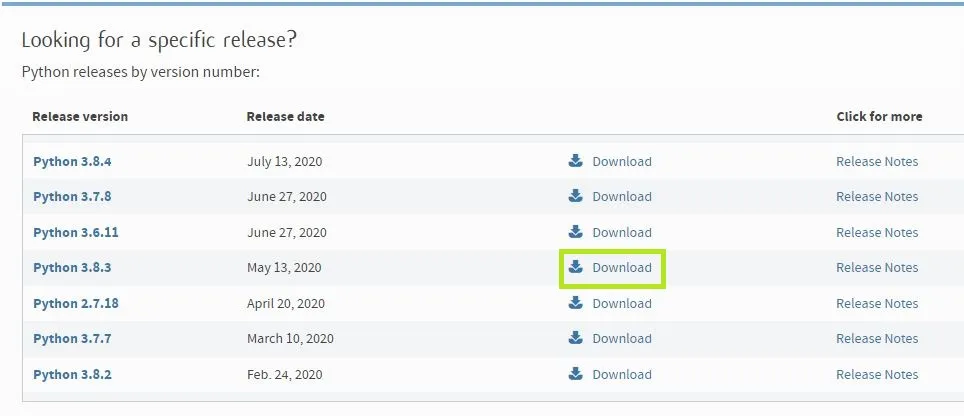
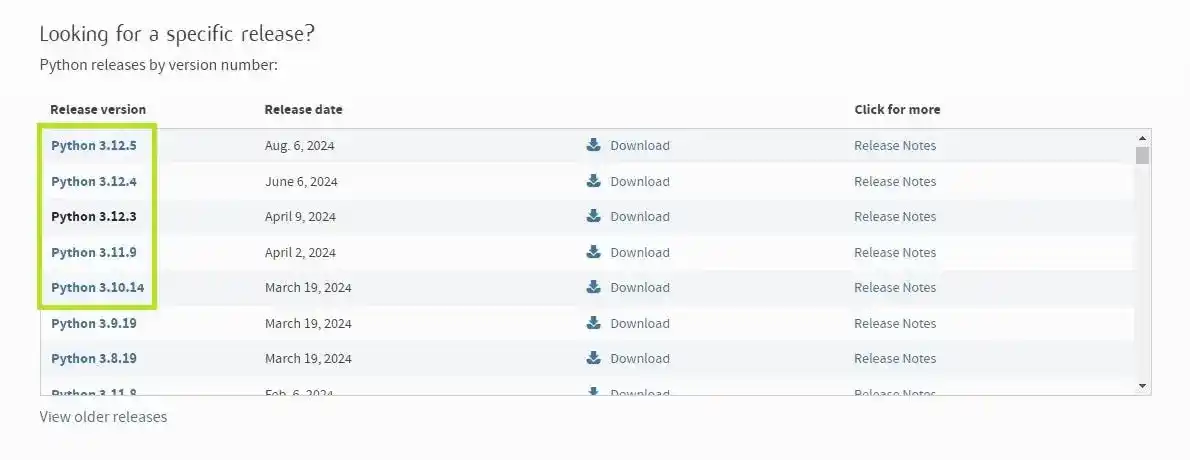
Update content class1

diff --git a/src/components/QuizForm/questionsPython.js b/src/components/QuizForm/questionsPython.js
@@ -330,7 +330,7 @@ export const questionsPythonClass2 = [
         answer: "and"
     }
 ]
-export const questionsPythonClass3 = [ 
+export const questionsPythonClass3 = [
     {
         question: "1. ¿Cuál es el propósito del uso de la estructura if en Python?",
         options: [
@@ -610,5 +610,258 @@ export const questionsPythonClass3 = [
             "Error de sintaxis"
         ],
         answer: "Cero\nUno\nDos"
+    }
+]
+
+export const questionsPythonClass4 = [
+    {
+        question: "1. ¿Cómo se define una función en Python?",
+        options: [
+            "def nombre_funcion():",
+            "function nombre_funcion():",
+            "crear_funcion():",
+            "definir_funcion()"
+        ],
+        answer: "def nombre_funcion():"
+    },
+    {
+        question: "2. ¿Cuál es la sintaxis correcta para llamar a una función llamada 'calcular'?",
+        options: [
+            "llamar calcular()",
+            "calcular",
+            "def calcular",
+            "calcular()"
+        ],
+        answer: "calcular()"
+    },
+    {
+        question: "3. ¿Qué palabra clave se utiliza para devolver un valor desde una función en Python?",
+        options: [
+            "return",
+            "yield",
+            "output",
+            "result"
+        ],
+        answer: "return"
+    },
+    {
+        question: "4. ¿Cómo se pasan parámetros a una función en Python?",
+        options: [
+            "def funcion(parametro1, parametro2):",
+            "funcion(parametro1, parametro2)",
+            "crear funcion(parametro1, parametro2):",
+            "parametro1, parametro2 = funcion()"
+        ],
+        answer: "def funcion(parametro1, parametro2):"
+    },
+    {
+        question: "5. ¿Cuál es el valor de retorno de una función en Python si no se especifica 'return'?",
+        options: [
+            "None",
+            "0",
+            "False",
+            "'' (cadena vacía)"
+        ],
+        answer: "None"
+    },
+    {
+        question: "6. ¿Qué es un módulo en Python?",
+        options: [
+            "Un archivo que contiene definiciones y declaraciones de funciones y variables.",
+            "Una función específica en Python.",
+            "Un bucle especial en Python.",
+            "Una clase predefinida en Python."
+        ],
+        answer: "Un archivo que contiene definiciones y declaraciones de funciones y variables."
+    },
+    {
+        question: "7. ¿Cómo se importa un módulo en Python?",
+        options: [
+            "import nombre_modulo",
+            "incluir nombre_modulo",
+            "usar nombre_modulo",
+            "llamar nombre_modulo"
+        ],
+        answer: "import nombre_modulo"
+    },
+    {
+        question: "8. ¿Cómo se accede a una función 'sumar' desde un módulo llamado 'operaciones'?",
+        options: [
+            "operaciones.sumar()",
+            "sumar.operaciones()",
+            "modulo.operaciones.sumar()",
+            "funcion.operaciones.sumar()"
+        ],
+        answer: "operaciones.sumar()"
+    },
+    {
+        question: "9. ¿Cuál es el propósito de la declaración 'if __name__ == \"__main__\":' en un módulo?",
+        options: [
+            "Permitir que el código dentro de ese bloque se ejecute solo cuando el módulo se ejecuta directamente.",
+            "Definir una función principal en un módulo.",
+            "Importar otros módulos dentro de un módulo.",
+            "Comprobar si un módulo tiene una función principal."
+        ],
+        answer: "Permitir que el código dentro de ese bloque se ejecute solo cuando el módulo se ejecuta directamente."
+    },
+    {
+        question: "10. ¿Cómo se llama a una función anónima en Python?",
+        options: [
+            "lambda",
+            "def",
+            "func",
+            "anon"
+        ],
+        answer: "lambda"
+    },
+    {
+        question: "11. ¿Cuál es la salida del siguiente código: 'def saludo(): return \"Hola\" print(saludo())'?",
+        options: [
+            "Hola",
+            "None",
+            "Error",
+            "saludo"
+        ],
+        answer: "Hola"
+    },
+    {
+        question: "12. ¿Qué es un argumento por defecto en una función?",
+        options: [
+            "Un valor que se asigna automáticamente si no se proporciona un argumento.",
+            "Un argumento que siempre se debe proporcionar.",
+            "Un tipo de error en una función.",
+            "Una variable interna de la función."
+        ],
+        answer: "Un valor que se asigna automáticamente si no se proporciona un argumento."
+    },
+    {
+        question: "13. ¿Cómo se define un argumento por defecto en una función?",
+        options: [
+            "def funcion(parametro='valor'):",
+            "def funcion(default parametro='valor'):",
+            "def funcion('valor' parametro=):",
+            "def funcion(parametro por defecto='valor'):"
+        ],
+        answer: "def funcion(parametro='valor'):"
+    },
+    {
+        question: "14. ¿Qué se necesita para crear un módulo en Python?",
+        options: [
+            "Un archivo .py con funciones y variables definidas.",
+            "Un archivo .txt con funciones y variables definidas.",
+            "Un proyecto en un IDE específico.",
+            "Un archivo .mod con una función principal."
+        ],
+        answer: "Un archivo .py con funciones y variables definidas."
+    },
+    {
+        question: "15. ¿Qué módulo se usa para trabajar con fechas y horas en Python?",
+        options: [
+            "datetime",
+            "time",
+            "calendar",
+            "os"
+        ],
+        answer: "datetime"
+    },
+    {
+        question: "16. ¿Cuál es el propósito de la función 'dir()' cuando se aplica a un módulo?",
+        options: [
+            "Listar todos los atributos y métodos de ese módulo.",
+            "Ejecutar una función específica del módulo.",
+            "Eliminar un módulo.",
+            "Guardar cambios en un módulo."
+        ],
+        answer: "Listar todos los atributos y métodos de ese módulo."
+    },
+    {
+        question: "17. ¿Qué se entiende por 'namespace' en Python?",
+        options: [
+            "El espacio donde los nombres de variables y funciones son almacenados.",
+            "El nombre de un módulo específico.",
+            "El rango de valores que una variable puede tomar.",
+            "Un bucle de funciones."
+        ],
+        answer: "El espacio donde los nombres de variables y funciones son almacenados."
+    },
+    {
+        question: "18. ¿Qué diferencia hay entre un argumento y un parámetro en Python?",
+        options: [
+            "Un parámetro es una variable en la definición de la función; un argumento es el valor pasado a la función.",
+            "No hay diferencia; son lo mismo.",
+            "Un argumento es una variable en la definición de la función; un parámetro es el valor pasado a la función.",
+            "Un parámetro solo se usa en funciones anónimas."
+        ],
+        answer: "Un parámetro es una variable en la definición de la función; un argumento es el valor pasado a la función."
+    },
+    {
+        question: "19. ¿Cómo se puede evitar que una función modifique una variable global?",
+        options: [
+            "Pasando una copia de la variable a la función.",
+            "Definiendo la variable como 'local'.",
+            "Usando la palabra clave 'nonlocal'.",
+            "No se puede evitar."
+        ],
+        answer: "Pasando una copia de la variable a la función."
+    },
+    {
+        question: "20. ¿Qué hace la función 'globals()' en Python?",
+        options: [
+            "Devuelve un diccionario que representa el espacio de nombres global.",
+            "Importa todos los módulos globales.",
+            "Elimina todas las variables globales.",
+            "Define una variable global."
+        ],
+        answer: "Devuelve un diccionario que representa el espacio de nombres global."
+    },
+    {
+        question: "21. ¿Cuál es la salida del siguiente código: 'def multiplica(x, y=2): return x * y print(multiplica(5))'?",
+        options: [
+            "10",
+            "5",
+            "7",
+            "Error"
+        ],
+        answer: "10"
+    },
+    {
+        question: "22. ¿Qué función se utiliza para importar módulos en Python si no se conoce el nombre del módulo de antemano?",
+        options: [
+            "importlib.import_module()",
+            "exec()",
+            "eval()",
+            "import()"
+        ],
+        answer: "importlib.import_module()"
+    },
+    {
+        question: "23. ¿Cuál es el propósito de la función 'help()' cuando se aplica a un módulo?",
+        options: [
+            "Proporcionar información detallada sobre el módulo.",
+            "Listar todos los atributos y métodos del módulo.",
+            "Ejecutar una función específica del módulo.",
+            "Eliminar el módulo."
+        ],
+        answer: "Proporcionar información detallada sobre el módulo."
+    },
+    {
+        question: "24. ¿Qué módulo nativo se utiliza para manejar archivos JSON en Python?",
+        options: [
+            "json",
+            "os",
+            "pickle",
+            "csv"
+        ],
+        answer: "json"
+    },
+    {
+        question: "25. ¿Cómo se puede importar solo una función específica de un módulo?",
+        options: [
+            "from modulo import funcion",
+            "import funcion from modulo",
+            "incluir funcion en modulo",
+            "modulo.funcion"
+        ],
+        answer: "from modulo import funcion"
     }
 ]

diff --git a/src/components/Class/Class1.js b/src/components/Class/Class1.js
@@ -315,9 +315,9 @@ const Class1 = () => {
                                             <img className="w-75 mx-auto d-block border-content " alt="" src="../img/class1/python1.webp"></img>
                                             <p className="mt-7 mb-4 text-break mx-auto w-75">2. Luego iremos a "All releases" </p>
                                             <img className="w-75 mx-auto d-block border-content" alt="" src="../img/class1/python2.webp"></img>
-                                            <p className="mt-7 mb-4 text-break mx-auto w-75">3. Buscamos la versión  3.8.3 y tocamos "download"</p>
+                                            <p className="mt-7 mb-4 text-break mx-auto w-75">3. Buscamos la versión más reciente o alguna versión superior o igual a 3.8, aunque lo más recomendable es que instalen 3.10 en adelante y tocamos "download"</p>
                                             <img className="w-75 mx-auto d-block border-content" alt="" src="../img/class1/python3.webp"></img>
-                                            <p className="mt-7 mb-4 text-break mx-auto w-75">4. Elegimos el sistema operativo que utilizamos en nuestro dispositivo y la arquitectura que tengamos sea 64 bits(86x_64 / x64) ó 32 bits(86x).</p>
+                                            <p className="mt-7 mb-4 text-break mx-auto w-75">4. Elegimos el sistema operativo que utilizamos en nuestro dispositivo y la arquitectura que tengamos sea 64 bits(86x_64 / x64) ó 32 bits(86x). <br/>Si no sabes cual descargar, estan los pasos a seguir en esta página para saber cual. Sube hacia arriba y toca el botón "¿Que arquitectura tengo en mi pc?"</p>
                                             <img className="w-75 mx-auto d-block border-content" alt="" src="../img/class1/python4.webp"></img>
                                             <p className="mt-7 mb-4 text-break mx-auto w-75">5. Al instalar selecciona "add python 3.8 to PATH" y "install now"</p>
                                             <img className="w-75 mx-auto d-block border-content" style={{ marginBottom: "7rem" }} alt="" src="../img/class1/python5.webp"></img>
@@ -426,7 +426,7 @@ const Class1 = () => {
                                     <div id="a11" className="accordion-collapse collapse" data-bs-parent="#accordionFlushExample">
                                         <div className="accordion-body text-light bg-dark">
                                             <h3 className="mt-4 text-break mx-auto w-75">Crea un proyecto en Visual Studio Code</h3>
-                                            <p className="mt-4 mb-2 text-break mx-auto w-75">1_ Para ejecutar nuestro primer programa primero debemos ubicarnos en la carpeta en donde queremos tener nuestro programa, para esto debemos ir a "open folder" </p>
+                                            <p className="mt-4 mb-2 text-break mx-auto w-75">1_ Para ejecutar nuestro primer programa primero debemos ubicarnos en la carpeta en donde queremos tener nuestro programa, para esto debemos ir a "open folder"-"Abrir carpeta" </p>
                                             <img className="w-75 mt-4 d-block mx-auto border-content" alt="" src="../img/class1/p1.webp"></img>
                                             <p className="mt-4 mb-2 text-break mx-auto w-75">2_ Nos aparecerá una pantalla en donde podemos indicarle en que carpeta queremos crear nuestro programa, luego irnos a la carpeta deseada vamos a tocar "seleccionar carpeta"</p>
                                             <img className="w-75 mt-4 d-block mx-auto border-content" alt="" src="../img/class1/p2.webp"></img>

diff --git a/src/components/Class/Class4.js b/src/components/Class/Class4.js
@@ -6,6 +6,7 @@ import { colorPrimaryPython } from '../../colors'
 import useScrollAnimation from '../../useScrollAnimation'
 import { CopyButton } from '../CopyButton/CopyButton'
 import { class4Code } from './classCode'
+import QuizForm from '../QuizForm/QuizForm';
 
 const Class4 = () => {
 
@@ -349,7 +350,17 @@ const Class4 = () => {
                   </div>
                 </div>
                 */}
-                <div id="element9" className={`mt-4 rounded-5 animated-left ${elementVisibility.element9 ? 'slide-left' : ''}`} style={{ background: colorPrimaryPython, borderRadius: "40px" }}>
+                 <div id="element9" className={`mt-4 rounded-5 animated-left ${elementVisibility.element9 ? 'slide-left' : ''}`} style={{ background: colorPrimaryPython, borderRadius: "40px" }}>
+                  <button className="accordion-button collapsed  bg-transparent" type="button" data-bs-toggle="collapse" data-bs-target="#a8" aria-expanded="false" aria-controls="flush-collapseSeven">
+                    <h2 className="text-light">Evaluación de Conocimientos: Clase 3 - Control de flujo en Python</h2>
+                  </button>
+                  <div id="a8" className="accordion-collapse collapse" data-bs-parent="#accordionFlushExample">
+                    <div className="accordion-body text-light bg-dark rounded-5 rounded-top">
+                      <QuizForm/>
+                    </div>
+                  </div>
+                </div>
+                <div id="element10" className={`mt-4 rounded-5 animated-left ${elementVisibility.element10 ? 'slide-left' : ''}`} style={{ background: colorPrimaryPython, borderRadius: "40px" }}>
                   <Link to="/pythonClassFile/class4.py"
                     target={"_blank"}
                     download={"class4.py"}>

diff --git a/src/components/QuizForm/QuizForm.js b/src/components/QuizForm/QuizForm.js
@@ -2,7 +2,7 @@ import React, { useState } from 'react';
 import { useLocation } from 'react-router-dom'
 import 'bootstrap/dist/css/bootstrap.min.css';
 import emailjs from '@emailjs/browser';
-import { questionsPythonClass2, questionsPythonClass3 } from './questionsPython'
+import { questionsPythonClass2, questionsPythonClass3, questionsPythonClass4 } from './questionsPython'
 
 const QuizForm = () => {
 
@@ -11,7 +11,7 @@ const QuizForm = () => {
     const [score, setScore] = useState(0);
     const [feedback, setFeedback] = useState([]);
     const location = useLocation();
-    const url = { "/classes/2KLc4SOyBBSsZ3MvrydE": questionsPythonClass2, "/classes/Ok0Mm7iHM1fIw69Twf4o": questionsPythonClass3 }
+    const url = { "/classes/2KLc4SOyBBSsZ3MvrydE": questionsPythonClass2, "/classes/Ok0Mm7iHM1fIw69Twf4o": questionsPythonClass3, "/classes/atVa7k6EyWDn7tZV7v1b": questionsPythonClass4 }
     let questions = url[location.pathname]
     const [messageSubmit, setMessageSubmit] = useState("");
     const [email, setEmail] = useState("");
